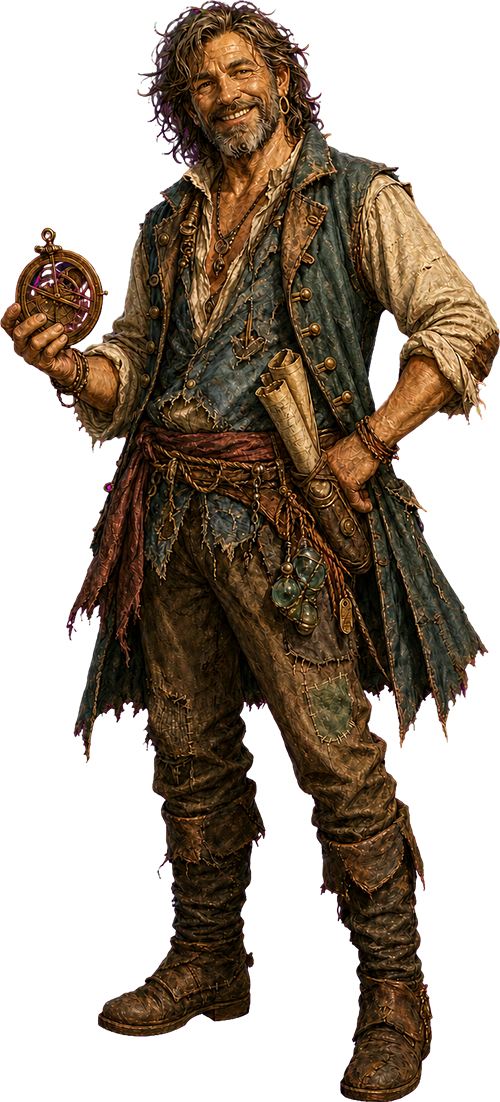
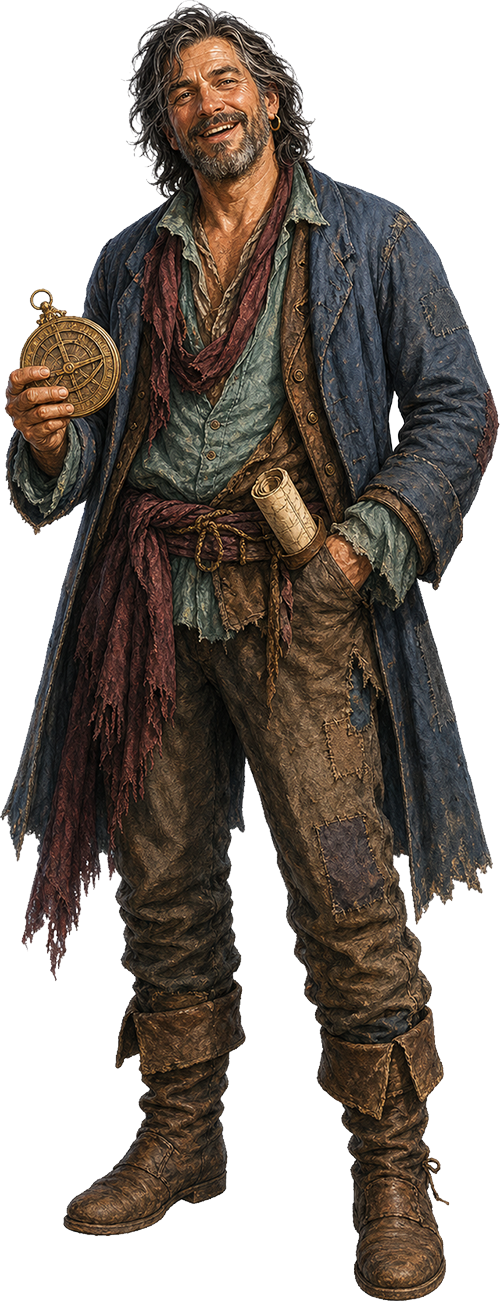
D1 enemies: cragclaws (roaming chase AI) + mireman ambush; Calder rework
- New 'creature' AI (world.js): mills via patrol, charges the player within
  aggroRange (400) at chaseSpeed, starts a 1v1 on contact (strikeRange 70).
  Generalized main.js pendingAggro to use foe.enemyId.
- Two cragclaws in D1 (443,1257)/(689,826); mireman hidden ambush (1662,1485)
  range 180 (Rootweaver-style, unseen).
- enemies.js: cragclaw (3hp) + mireman (5hp); portraits preloaded.
- Calder: new portrait + rewritten backstory (captain of the wrecked Gull's
  Regret, mutinous crew fled north, hid his gold; blocked by the creatures).
- CLAUDE.md logged. queen_cragclaw.png committed (asset only, unused for now).

diff --git a/js/data/d1.js b/js/data/d1.js
@@ -205,6 +205,14 @@ export default {
 
   battles: [],
 
+  // Hidden Mireman ambush (2026-07-25) — an unseen bog-thing in the eastern
+  // mire. Same system as D4's Rootweavers: walk within `range` and the fight
+  // starts on its own (world.js checkAmbushes / main.js pendingAmbush). No
+  // sprite (it's unseen until it rises); killing it clears it for good.
+  ambushes: [
+    { id: 'mireman_1', x: 1662, y: 1485, range: 180, enemies: ['mireman'] },
+  ],
+
   // Small torch flames flanking the path up to Calder's hut (2026-07-24) —
   // code-drawn flickering fire (World.drawFire), rising from the two torch
   // posts. No asset needed.
@@ -241,6 +249,35 @@ export default {
   // dialog opens over the interior, same as any home NPC. The ~40px walkable
   // fingers Danny painted up to the hut are what make the door reachable.
   npcs: [
+    // Cragclaws (2026-07-25): roaming beach creatures that mill about their
+    // patch of sand, then charge the player on sight (world.js `creature`
+    // behavior — chase within aggroRange 400, fight on contact via its
+    // `enemyId`). `defeated` persists per-World + in the save (npcsDefeated),
+    // so a slain cragclaw stays gone. No queen cragclaw yet.
+    {
+      id: 'cragclaw_1', name: 'Cragclaw', creature: true, enemyId: 'cragclaw',
+      sprite: 'assets/images/cragclaw_overhead.png',
+      portrait: 'assets/images/cragclaw.png',
+      x: 443, y: 1257, speed: 34, chaseSpeed: 120, aggroRange: 400,
+      startsHome: false,
+      patrol: [
+        { x: 443, y: 1257 },
+        { x: 503, y: 1297 },
+        { x: 393, y: 1307 },
+      ],
+    },
+    {
+      id: 'cragclaw_2', name: 'Cragclaw', creature: true, enemyId: 'cragclaw',
+      sprite: 'assets/images/cragclaw_overhead.png',
+      portrait: 'assets/images/cragclaw.png',
+      x: 689, y: 826, speed: 34, chaseSpeed: 120, aggroRange: 400,
+      startsHome: false,
+      patrol: [
+        { x: 689, y: 826 },
+        { x: 749, y: 866 },
+        { x: 639, y: 876 },
+      ],
+    },
     {
       id: 'calder_rusk',
       name: 'Calder Rusk',
@@ -252,15 +289,15 @@ export default {
         interior: 'assets/images/home_interior.jpg',
       },
       dialog: {
-        line: 'Well, blow me down — a visitor! Come in, come in, mind the sand. Haven’t had a living soul to jaw with since my crew weighed anchor. What brings you to my little corner of paradise?',
+        line: 'Company! Now there’s a tide I didn’t expect. Come in off the sand, friend — mind the driftwood. It’s been a long stretch since a face washed up here that wasn’t a crab’s. Sit. Ask what you like.',
         responses: [
           'Who are you?',
           'Anything I should watch out for?',
           'Leave.',
         ],
         responseEffects: [
-          { followUp: 'Calder Rusk, once first mate of the Gull’s Regret — that sorry heap of timber out on the sand used to be her. We ran aground in a squall one black night. The rest of the crew patched a longboat and rowed north for the mainland, but me? I’d had my fill of the sea. Warm sand, fresh coconuts, no captain barking in my ear. I stayed, and I’ve not regretted a single day.' },
-          { followUp: 'Aye — keep your wits about you down on the beach. There’s things that crawl up out of the tide when the light goes long: snapping, scuttling things with a mean streak. They keep to the water’s edge mostly, but a careless wanderer makes an easy supper. Carry something sharp, and don’t go poking about the wrack alone.' },
+          { followUp: 'Calder Rusk — captain of the Gull’s Regret. She’s that broken-backed hull rotting out on the sand now. We ran her aground in a storm, a black night with waves like moving hills. My crew lived through it… and then they turned on their captain. Split the hold, took their shares of the loot, and rowed north to that little fishing village to play at being honest men. Left me to the gulls. So I stayed. Salvaged what timber the sea hadn’t swallowed, raised this hut plank by plank, and hid away the gold they never got their claws on.' },
+          { followUp: 'Aye — and it’s the whole reason I’m marooned up here like a barnacle. The beach crawls with cragclaws: snapping, scuttling brutes that put their heads down and charge the moment they catch your scent. And out east, in the mire, something worse — miremen, that heave up out of the muck when you wander too near. Between the pair of them I can’t even reach my own buried gold, let alone leave. A body with steel and nerve, though… well. Thin out those creatures and there’d be a fair cut in it for you.' },
           null,
         ],
       },

diff --git a/js/world.js b/js/world.js
@@ -233,7 +233,7 @@ export class World {
     let best = null;
     let bestDist = INTERACT_RANGE;
     for (const npc of this.npcs) {
-      if (npc.atHome || npc.defeated) continue;
+      if (npc.atHome || npc.defeated || npc.creature) continue; // creatures attack, not talk
       const d = Math.hypot(npc.x - this.player.x, npc.y - this.player.y);
       if (d < bestDist) { best = npc; bestDist = d; }
     }
@@ -544,6 +544,38 @@ export class World {
       }
 
       if (npc.pause > 0) { npc.pause -= dt; continue; }
+
+      // Roaming creatures (cragclaws, 2026-07-25): mill about their patrol area
+      // when calm, but CHARGE the player the moment they come within aggroRange
+      // — racing in at chaseSpeed and, on contact, firing pendingAggro so
+      // main.js starts the fight (its enemyId picks the combatant). `_strikeArmed`
+      // hysteresis (re-arms past 1.6× the strike range) stops a fled fight from
+      // instantly re-triggering while the creature is still on top of the player.
+      if (npc.creature) {
+        const p = this.player;
+        const d = Math.hypot(p.x - npc.x, p.y - npc.y);
+        // Strike (fight-start) range. The chaser can't physically touch the
+        // player — body-vs-body collision (~36px centres) plus the steer
+        // lookahead (~14px) hold it ~50px off — so the strike range sits a bit
+        // beyond that so "reaching" the player reliably starts the fight.
+        const strike = npc.strikeRange ?? 70;
+        if (d < (npc.aggroRange ?? 400)) {
+          if (d < strike) {
+            if (npc._strikeArmed !== false && !this.pendingAggro) {
+              this.pendingAggro = npc;
+              npc._strikeArmed = false;
+            }
+          } else {
+            if (d > strike * 1.6) npc._strikeArmed = true;
+            const sp = npc.speed;
+            npc.speed = npc.chaseSpeed ?? 120; // race in
+            this.walkToward(npc, { x: p.x, y: p.y }, dt, 8);
+            npc.speed = sp;
+          }
+          continue;
+        }
+        npc._strikeArmed = true; // calm again — reset, then mill about below
+      }
 
       if (npc.routine) { this.updateRoutine(npc, dt); continue; }
 

diff --git a/js/data/enemies.js b/js/data/enemies.js
@@ -59,6 +59,39 @@ export default {
     drops: { gold: { min: 10, max: 18 }, loot: [{ id: 'health_potion', chance: 0.5 }, { id: 'magic_potion', chance: 0.2 }] },
   },
 
+  // Cragclaw (D1 beach, 2026-07-25) — a snapping crab-thing that mills about
+  // the sand and CHARGES the player on sight (world.js creature aggro; see
+  // main.js's pendingAggro). Two of them roam D1. Individually beatable by a
+  // fresh player but with real bite, and there are two, so they're a genuine
+  // hazard. 1v1 per encounter.
+  cragclaw: {
+    id: 'cragclaw',
+    name: 'Cragclaw',
+    portrait: 'assets/images/cragclaw.png',
+    health: 3,
+    attack: 2,
+    defense: 1,
+    speed: 9,
+    damage: { min: 1, max: 2 },
+    drops: { gold: { min: 2, max: 5 } },
+  },
+
+  // Mireman (D1, 2026-07-25) — an unseen bog-thing that rises from the mire
+  // when the player wanders too close (a hidden proximity ambush, exactly like
+  // the D4 Rootweavers). Tougher than a cragclaw: a threatening early fight,
+  // but not the Rootweaver's "flee-only" wall.
+  mireman: {
+    id: 'mireman',
+    name: 'Mireman',
+    portrait: 'assets/images/mireman.png',
+    health: 5,
+    attack: 2,
+    defense: 2,
+    speed: 7,
+    damage: { min: 1, max: 3 },
+    drops: { gold: { min: 4, max: 9 }, loot: [{ id: 'health_potion', chance: 0.25 }] },
+  },
+
   // Rootweaver (D4 shortcut ambushes, 2026-07-11) — a deliberate "too tough
   // for now" wall: solid HP + hard hits so a fresh player (5 HP, atk1/def1)
   // can't grind it down before dying, and is meant to FLEE. Not absurd though

diff --git a/js/main.js b/js/main.js
@@ -289,6 +289,10 @@ async function boot() {
     // shown in the open-chest window. Preloaded so neither pops in.
     'assets/images/treasure_chest_overhead.png',
     'assets/images/treasure_chest.png',
+    // D1 enemy portraits (cragclaw charges via aggro, mireman via ambush — so
+    // neither is in a scene `battles` list the preloader scans; add them here).
+    'assets/images/cragclaw.png',
+    'assets/images/mireman.png',
     ...Object.values(SCENES).flatMap((scene) => [
       scene.background,
       // Places (isPlace: true, e.g. "Your House") have no sprite — they're
@@ -2232,7 +2236,9 @@ async function boot() {
     if (world.pendingAggro) {
       const foe = world.pendingAggro;
       world.pendingAggro = null;
-      const enemyId = foe.id === 'bramblekin_chief' ? 'bramblekin_chief' : 'bramblekin';
+      // A roaming creature (cragclaw) carries its own enemyId; a hostile-camp
+      // Bramblekin falls back to its guard/Chief id.
+      const enemyId = foe.enemyId || (foe.id === 'bramblekin_chief' ? 'bramblekin_chief' : 'bramblekin');
       startBattle([enemyId], (result) => {
         if (result === 'victory') foe.defeated = true;
       });

diff --git a/CLAUDE.md b/CLAUDE.md
@@ -178,6 +178,10 @@ The D4 woodland camp is inhabited by **5 Bramblekin guards + 1 Bramblekin Chief*
 - **Collision generated TWICE.** First pass (no walkable guide yet): auto-classified the art (sea/rock/palm blocked, sand/road/grass walkable) + carved the road corridor. Then Danny dropped **`assets/images/D1_Background_walkable.jpg`** (red = walkable, same as D2) and it was **regenerated from that** — the same D2/D4 pipeline: 20px red-sample → east-edge apron (so the whole y640-720 arrival band is walkable, since the player can arrive anywhere in it) → **1-cell shoulder DILATION** of the painted red → obstacles are the complement. **Key gotcha:** Danny's red fingers up to the hut were ~40px wide — too thin to survive an *erosion*-based flood (2 cells wide, no interior cell passes the 8-neighbour clear test), which silently walled off the hut. The dilation approach (widen the painted red by a cell) is what lets the 36px collider reach the door. Headless-verified with the real engine collider: one connected region, east exit + hut door reachable, zero nodes on deep water. One hidden collectible (+5 gold, "Something glints in the sand") on the reachable beach by the wreck; proximity labels "Shipwreck" + "Calder's Hut". Live-verified end to end (D1↔D2 round trip, walk to the hut, zero console errors).
 - **Calder Rusk** (`calder_rusk`) — a retired-pirate castaway in the NE hut (former first mate of the wrecked *Gull's Regret*; crew rowed north, he stayed). A **home NPC that never leaves**: `startsHome:true` + **no routine/patrol** → permanently `atHome`, never rendered as a walking body, so he needs **only a portrait (`calder_rusk.png`), no overhead sprite** (world.js skips atHome NPCs in render/collision; the home-door dialog path only touches portrait + interior). Interior reuses `home_interior.jpg` (a pirate-shack interior could be dropped in later). Gregarious dialog with a "Who are you?" backstory branch and an "Anything I should watch out for?" branch that warns of the creatures crawling up from the tide (seeds a future beach encounter) — standard `followUp` responses (Go back./Leave.), paginated. **Pattern for any future "homebody" NPC: startsHome + no routine + portrait only.** His `home.door` was moved to **(1439,364)**, the hut's actual doorway (Danny, 2026-07-24) — engine-checked reachable (nearest standable point ~21px away, inside DOOR_RANGE 50).
 - **Torch flames (2026-07-24):** two small code-drawn flames flank the path to the hut — `scene.fires: [{x:1445,y:450},{x:1509,y:424}]` → `world.js`'s `this.fires` + `drawFire(f)`, rendered in the effects pass alongside `drawSmoke`. Each is a cluster of warm particles (white-gold core → orange body → red tip) that rise/taper/fade with a flicker, plus a base glow, drawn additively (`globalCompositeOperation='lighter'`) so it reads as light. Tunable per source (`rise/width/count/speed/scale`); defaults make a small torch flame. **This is the reusable flame effect** — mirror of the `smoke`/`drawSmoke` system; add `fires:[{x,y,...}]` to any scene for torches/campfires.
+- **Calder rewritten (2026-07-25):** new portrait (`calder_rusk.png` re-dropped). Backstory changed — he's now the **captain** of the wrecked *Gull's Regret* (was first mate). His crew survived the storm-wreck, mutinied, split the loot and rowed **north to the fishing village**, leaving him marooned; he stayed, salvaged the timber, built the hut, and **hid the rest of his gold**. He can't reach his gold or leave because of the **cragclaws and miremen** — which seeds a future "thin them out / recover his gold" quest (his "Anything I should watch out for?" branch hints at a reward). Opening line no longer uses the "well, blow me down" cliché.
+- **Cragclaws (2026-07-25):** two roaming beach creatures — `cragclaw_1` @ (443,1257), `cragclaw_2` @ (689,826). New **`creature` AI** in `world.js`'s `updateNpcs`: they **mill** via a small `patrol` loop when calm, but the moment the player comes within **`aggroRange` (400px)** they **charge** at `chaseSpeed` (120) and, on reaching **`strikeRange` (default 70)**, fire `pendingAggro` so `main.js` starts a 1v1 with the creature's **`enemyId`**. Strike range is 70 (not tighter) because body-collision (~36px) + the steer lookahead (~14px) hold the chaser ~50px off, so a tighter range would orbit-without-triggering (verified headless). `_strikeArmed` hysteresis (re-arms past 1.6×) stops a fled fight re-triggering on top of the player. Creatures are excluded from `nearestNpcInRange` (they attack, don't talk); `defeated` persists per-World + in the save (`npcsDefeated`). `main.js`'s `pendingAggro` handler was generalized to use `foe.enemyId` (falls back to the Bramblekin ids). **Reuse this `creature` pattern for any future roaming monster.** No queen cragclaw yet (`queen_cragclaw.png` asset exists, unused).
+- **Mireman (2026-07-25):** an unseen bog-thing — a hidden proximity **ambush** (`scene.ambushes`, exactly like D4's Rootweavers) at (1662,1485), **range 180**, `enemies:['mireman']`. No sprite (rises unseen); `mireman.png` is the battle portrait. Killing it clears it for good.
+- **New enemies (`enemies.js`):** `cragclaw` (3hp, atk2/def1, spd9, 1–2 dmg, drops 2–5g) and `mireman` (5hp, atk2/def2, spd7, 1–3 dmg, drops 4–9g + a health-potion chance). Both battle portraits are preloaded in `main.js` (they're aggro/ambush enemies, not in any scene `battles` list the preloader scans).
 
 ## Treasure chests (2026-07-24)
 
@@ -194,7 +198,7 @@ The D4 woodland camp is inhabited by **5 Bramblekin guards + 1 Bramblekin Chief*
 - ✅ D4 Woods + scene transitions: walk-off-the-edge travel between D3 and D4 (position-preserving, per-scene world state cached for the session — see "Scenes & transitions" above), machine-traced woods collision (river, three bridges, cave approach, camp with blocked tents/firepit/fences), 2-Blight-Rat camp encounter, "Old Cave"/"Woodland Camp" proximity labels, one hidden collectible, north exit stubbed toward C4 ("isn't ready yet" toast). Live-verified end to end: D3→D4→D3 round trip at preserved height with the same D3 world instance resuming, camp battle with music crossfade, zero console errors.
 - ✅ D2 Village (`js/data/d2.js`, 2026-07-12): walk WEST off D3 → the village — a ring road around a central plaza (well/shrub island), houses + log-stores between tree clumps, crop margins E/W, a SW pond, a fenced garden at the bottom. Collision generated from `D2_Background_Walkable.jpg` (same pipeline as D4: 20px red-sample + 1-cell dilation + edge aprons), engine-verified: spawn walkable, ~15.8k reachable nodes, all quadrants + edge exits reachable from the east entry. Registered in `main.js`'s `SCENES`; **east exit → D3** (y890-990, mirrors D3's west so the round trip preserves height — verified via the boot harness), **north → C2** stubbed (unbuilt → "isn't ready yet" toast); **west → D1** now live (D1 Shipwreck Cove built 2026-07-24). **18 NPCs added 2026-07-12** (art files `assets/images/<Full Name>_overhead.png` + `<Full Name>.png` — note the SPACES in the filenames, they load fine URL-encoded): 5 shop vendors (Bram Caskwell/tavern, Sorcha Emberfell/blacksmith, Nadira Thornwell/apothecary, Emeric Vale/shopkeeper, Kwame Hearthstone/baker) + the priestess Elowen Dawnmere at the south temple by the graveyard, in the central gray buildings; 12 villagers in the log houses around the ring. Each has a home door + a short LOCAL 2-point wander loop and a staggered routine (vendors ~2min shop/~1min out; villagers ~2min home/~2min out) — all door/wander points engine-validated for 36px clearance, and the full set **stress-tested headless: 3600s sim, zero livelock**, staggering keeps ~9-10 home at any time. Interiors all reuse `home_interior.jpg` (no per-shop interiors yet). **Reworked 2026-07-12 (2nd pass):** building positions were re-fixed to sit on the ACTUAL buildings (6 gray houses = vendors+temple, 12 brown log houses = villagers — earlier anchors were on grass); each home's `door` now sits on the adjacent **path** (engine-picked on-path point, ≥48px apart so no two collide); proximity `buildings` labels added for all 18 (business names for vendors, "X's House" for villagers); routines reworked so an out-of-home NPC **walks to a relevant/nearby destination, pauses ~30s, walks home** (moving, not standing — Darius→pond, Elowen→graveyard, etc.), still ~8-10 out at once, stress-tested zero-livelock; **chimney smoke** on all 18 roofs (D4's `smoke`/`drawSmoke`, tuned thinner). **Labels now render on a `#labels` canvas ABOVE the vignette** (world.js `labelCtx`, index.html/style.css) so they read crisply instead of being dimmed by the multiply layer — applies to every scene's building/NPC labels. **Not yet live-verified in-browser.**
 - ✅ Vendor shops (2026-07-12): the 5 D2 vendors carry `vendor: true` + a `stock` id-list + an `awayLine`. `main.js`'s `buildVendorDialog` swaps dialog by state — out of their shop (`!atHome`) they point you back with `awayLine`; behind the counter (`atHome`) they offer **Buy / Sell** (`{shop:'buy'|'sell'}` response effects → `applyResponseEffect` closes the dialog then `openVendorShop`). Items gained a `price` (buy cost) in `items.js`; sell value = `Math.floor(price/2)` (RPG-standard half, `main.js`'s `sellValue()`). The shop is a full-screen overlay (`#shop`, `.shop-box` reusing the panel frame + `.item-grid` tiles with a `.item-price` line): Buy grid = the vendor's stock at full price (dimmed/red if unaffordable), Sell grid = the player's non-quest priced items at half. `ui.js`'s `openShop`/`shopKey`/`refreshShop`/`isShopOpen` are presentation + keyboard nav (Up/Down switch Buy/Sell, Left/Right select, Space trades, Esc leaves) — `main.js` owns the gold/inventory mutation (`spendGold`+`addItem` / `removeItem`+`addGold`) via onBuy/onSell then re-hands fresh lists to `refreshShop`. Stock is infinite for now; each vendor stocks just a Health Potion + Dagger until items/prices are fleshed out. `ui.isShopOpen()` is routed in the keydown handler + OR'd into the frame `locked` flag like the other modals.
-- ✅ D1 Shipwreck Cove (`js/data/d1.js`, 2026-07-24): walk WEST off D2 → a tropical beach (shipwreck, sea, palm grassland, cliffs, tide pool). Collision from Danny's `D1_Background_walkable.jpg` (red-sample + 1-cell dilation), engine-verified connected/reachable. **East exit → D2** (y640-720); W/N/S are map edge. One hidden collectible; **Calder Rusk**, a retired-pirate homebody NPC in the NE hut (portrait-only, never leaves) with a beach-creature warning. Live-verified end to end. See the "D1 Shipwreck Cove + Calder Rusk" section above.
+- ✅ D1 Shipwreck Cove (`js/data/d1.js`, 2026-07-24): walk WEST off D2 → a tropical beach (shipwreck, sea, palm grassland, cliffs, tide pool). Collision from Danny's `D1_Background_walkable.jpg` (red-sample + 1-cell dilation), engine-verified connected/reachable. **East exit → D2** (y640-720); W/N/S are map edge. One hidden collectible; **Calder Rusk**, a marooned-pirate-captain homebody NPC in the NE hut (portrait-only, never leaves) whose crew mutinied and fled north, warning of the local creatures. **Two cragclaws** (roaming `creature` AI: mill, then charge + fight within 400px) and a **mireman** (unseen Rootweaver-style ambush, 180px). Live-verified. See the "D1 Shipwreck Cove + Calder Rusk" section above.
 - ✅ Treasure chests (2026-07-24): world-sprite chests (`scene.chests`) with the character drop shadow, movement collision until emptied, lockpick-to-open when locked, a picture-of-chest contents window (per-item + gold + Take everything), removed when empty, state persisted by the save system. First one: D1's `d1_beach_chest` (18g + common items). Reuses the interactable/place/lockpick machinery. See the "Treasure chests" section above.
 - ⏳ Later: real dialog trees, ranged/varied enemy types beyond the Blight Rat encounters, an actual Magic system behind the Menu's hidden bar (battle Magic slot removed until then), gear that grants attackBonus/defenseBonus (none exists yet — only weapon damage is wired), more items/collectibles/unoccupied buildings, interiors (incl. the D4 cave), the other 14 scenes, camp inhabitants/content in D4, Steam wrap.
 - Player stats hardcoded in `js/main.js` (health 5/5, magic 5/10 [bar hidden], gold 0, attack 1, defense 1, **speed 1, luck 0** — all deliberate new-game-start values). **Level/XP were REMOVED entirely on 2026-07-22** (Danny — the game has no experience/leveling loop; progression is gear-driven: weapons/armor + vitality potions). The old `stats.level`/`stats.xp`/`xpMax` fields, the hidden Stats-tab Level/Experience rows, `ui.updateStatsPanel`'s xp bar, and the `.bar-fill.xp`/`.xp-row` CSS are all gone. `NEW_GAME_STATS` (a `{...stats}` snapshot taken at module load) is the canonical fresh-start reset, used by the save system. Speed (1–3, cap 3) and Luck (starts 0) are real stats: **Speed** scales overworld movement AND grants battle initiative (50/75/100% at Speed 1/2/3); **Luck** adds +1/point to the player's attack & defense rolls; both shown in the Stats tab, both start at their floor and rise later via gear/effects not yet built. Audio defaults: music 50%, effects 100%. Inventory state (`inventory` array) starts empty and `equipment` starts with every slot unequipped — first items obtainable in-game are Mirelle's vegetable-crate quest and whatever's still in Your House (Dagger, Health Potion).
